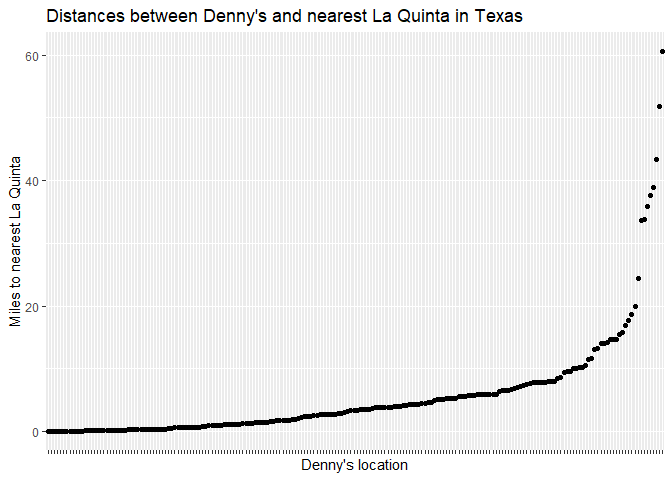
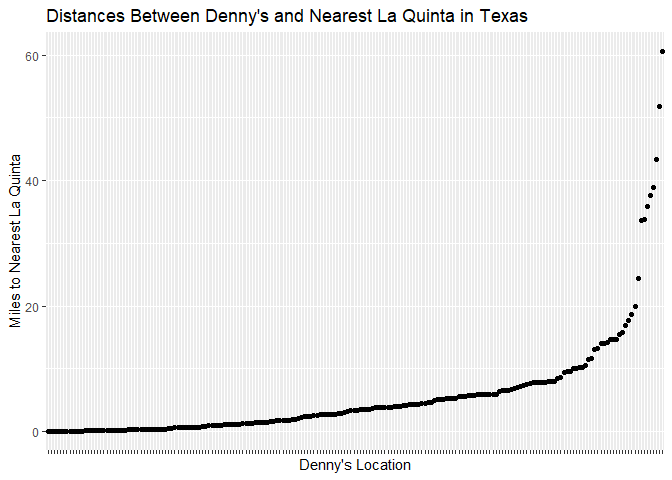
fin.

Changed region(s): [[0.1875, 0.0, 0.7812, 0.0625], [0.4375, 0.9375, 0.625, 1.0], [0.0, 0.3125, 0.0312, 0.6875]]

diff --git a/lab-05.md b/lab-05.md
@@ -180,16 +180,33 @@ dn_lq_ak_mindist %>%
   ggplot(aes(x = address.x, y = closest)) +
   geom_point(binwidth = 100, stat = "identity") +
   theme() +
-  labs(title = "Distances between Denny's and nearest La Quinta in Alaska",
-       x = "Denny's location",
-       y = "Miles to nearest La Quinta")
+  labs(title = "Distances Between Denny's and Nearest La Quinta in Alaska",
+       x = "Denny's Location",
+       y = "Miles to Nearest La Quinta")
 ```
 
     ## Warning in geom_point(binwidth = 100, stat = "identity"): Ignoring unknown
     ## parameters: `binwidth`
 
-![](lab-05_files/figure-gfm/ex8_visualization-1.png)<!-- --> \###
-Exercise 9
+![](lab-05_files/figure-gfm/ex8_visualization-1.png)<!-- -->
+
+``` r
+summary(dn_lq_ak_mindist)
+```
+
+    ##             address.x    closest     
+    ##  2900 Denali     :1   Min.   :2.035  
+    ##  1929 Airport Way:1   1st Qu.:3.616  
+    ##  3850 Debarr Road:1   Median :5.197  
+    ##                       Mean   :4.410  
+    ##                       3rd Qu.:5.598  
+    ##                       Max.   :5.998
+
+This distribution of distances between Denny’s and the nearest La Quinta
+in Alaska reveals that they are fairly close to eachother, especially
+considering how large Alaska is. However, it also may be due to how most
+of the people and businesses are located in a few cities. \### Exercise
+9
 
 “Repeat the same analysis for North Carolina: (i) filter Denny’s and La
 Quinta Data Frames for NC, (ii) join these data frames to get a complete
@@ -265,16 +282,34 @@ dn_lq_nc_mindist %>%
   theme(
     axis.text.x = element_blank()
   ) +
-  labs(title = "Distances between Denny's and nearest La Quinta in North Carolina",
-       x = "Denny's location",
-       y = "Miles to nearest La Quinta")
+  labs(title = "Distances Between Denny's and Nearest La Quinta in North Carolina",
+       x = "Denny's Location",
+       y = "Miles to Nearest La Quinta")
 ```
 
     ## Warning in geom_point(binwidth = 100, stat = "identity"): Ignoring unknown
     ## parameters: `binwidth`
 
-![](lab-05_files/figure-gfm/ex9_NCvisualization-1.png)<!-- --> \###
-Exercise 10 “Repeat the same analysis for Texas.”
+![](lab-05_files/figure-gfm/ex9_NCvisualization-1.png)<!-- -->
+
+``` r
+summary(dn_lq_nc_mindist)
+```
+
+    ##                            address.x     closest       
+    ##  516 Tyvola Rd                  : 1   Min.   :  1.779  
+    ##  3215 Wake Forest Rd            : 1   1st Qu.: 22.388  
+    ##  7021 Highway 751, #901         : 1   Median : 53.456  
+    ##  4541 Sunset Rd                 : 1   Mean   : 65.444  
+    ##  4380 Fayetteville Rd           : 1   3rd Qu.: 93.985  
+    ##  University of North Carolina At: 1   Max.   :187.935  
+    ##  (Other)                        :22
+
+This distribution of distances between Denny’s and the nearest La Quinta
+in North Carolina reveals that there are some that are clustered close
+together but also some that are farther away. Suggesting that the joke
+does not hold as true in NC as it may in other states. \### Exercise 10
+“Repeat the same analysis for Texas.”
 
 ``` r
 dn_tx <- dennys %>%
@@ -342,17 +377,38 @@ dn_lq_tx_mindist %>%
   theme(
     axis.text.x = element_blank()
   ) +
-  labs(title = "Distances between Denny's and nearest La Quinta in Texas",
-       x = "Denny's location",
-       y = "Miles to nearest La Quinta")
+  labs(title = "Distances Between Denny's and Nearest La Quinta in Texas",
+       x = "Denny's Location",
+       y = "Miles to Nearest La Quinta")
 ```
 
     ## Warning in geom_point(binwidth = 100, stat = "identity"): Ignoring unknown
     ## parameters: `binwidth`
 
-![](lab-05_files/figure-gfm/ex10_TXvisualization-1.png)<!-- --> \###
-Exercise 11 “Repeat the same analysis for a state of your choosing,
-different than the ones we covered so far.”
+![](lab-05_files/figure-gfm/ex10_TXvisualization-1.png)<!-- -->
+
+``` r
+summary(dn_lq_tx_mindist)
+```
+
+    ##                       address.x      closest       
+    ##  607 Avenue Q              :  1   Min.   : 0.0160  
+    ##  1410 Seawall Blvd         :  1   1st Qu.: 0.7305  
+    ##  3600 Santa Ursula         :  1   Median : 3.3715  
+    ##  7619 E Ben White Boulevard:  1   Mean   : 5.7918  
+    ##  28669 I-45 North          :  1   3rd Qu.: 6.6303  
+    ##  1108 S Fort Hood Rd       :  1   Max.   :60.5820  
+    ##  (Other)                   :194
+
+Considering how large texas is, this distribution of distances between
+Denny’s and the nearest La Quinta in Texas reveals that they are
+generally close to eachother. This suggests that the joke may hold true
+in Texas.
+
+### Exercise 11
+
+“Repeat the same analysis for a state of your choosing, different than
+the ones we covered so far.”
 
 ``` r
 dn_az <- dennys %>%
@@ -420,15 +476,28 @@ dn_lq_az_mindist %>%
   theme(
     axis.text.x = element_blank()
   ) +
-  labs(title = "Distances between Denny's and nearest La Quinta in Arizona",
-       x = "Denny's location",
-       y = "Miles to nearest La Quinta")
+  labs(title = "Distances Between Denny's and Nearest La Quinta in Arizona",
+       x = "Denny's Location",
+       y = "Miles to Nearest La Quinta")
 ```
 
     ## Warning in geom_point(binwidth = 100, stat = "identity"): Ignoring unknown
     ## parameters: `binwidth`
 
 ![](lab-05_files/figure-gfm/ex11_AZvisualization-1.png)<!-- -->
+
+``` r
+summary(dn_lq_az_mindist)
+```
+
+    ##                 address.x     closest       
+    ##  2801 No Black Canyon: 1   Min.   :  0.021  
+    ##  6484 E Broadway     : 1   1st Qu.:  4.629  
+    ##  825 S 48th St       : 1   Median :  7.946  
+    ##  2122 S Milton Road  : 1   Mean   : 36.936  
+    ##  8131 W Bell Rd      : 1   3rd Qu.: 38.067  
+    ##  7400 W Chandler Blvd: 1   Max.   :242.734  
+    ##  (Other)             :77
 
 ### Exercise 12
 
